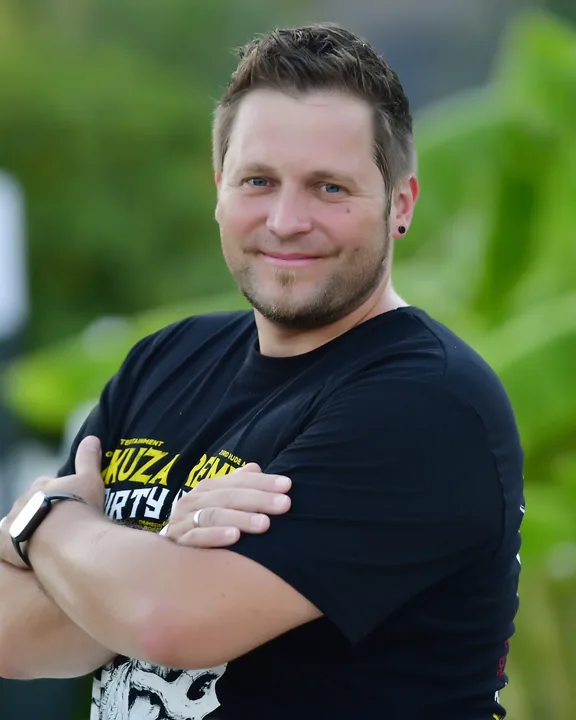
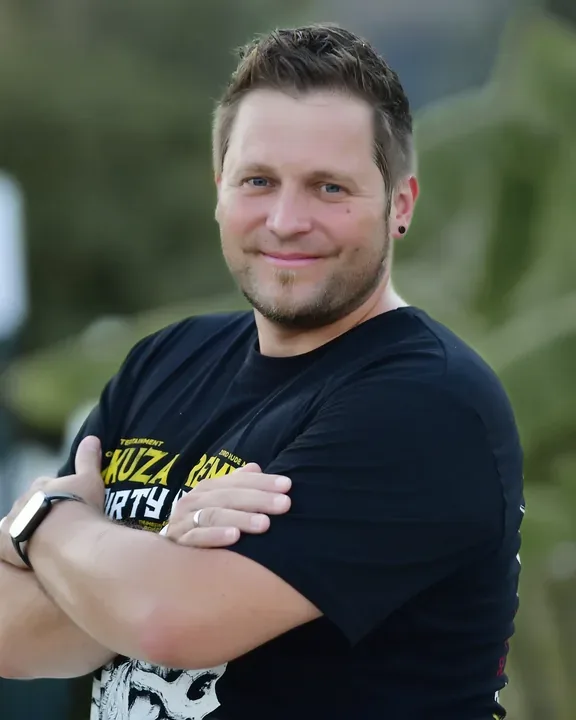
Über mich: Grün im Hintergrund des Porträtfotos gedämpft (Haut unverändert), ?v=3 (#364)
Claude-Session: https://claude.ai/code/session_01WS1E1dfBEjUneEEjWPgvxT

diff --git a/webdesign/index.html b/webdesign/index.html
@@ -657,7 +657,7 @@
   </style>
   <div class="container about">
     <div class="about__pics">
-      <img src="/assets/img/team/tim-portrait.webp?v=2" alt="Tim Kofler" width="576" height="720" loading="lazy">
+      <img src="/assets/img/team/tim-portrait.webp?v=3" alt="Tim Kofler" width="576" height="720" loading="lazy">
       <figure><img src="/assets/img/team/tim-unterwegs.webp?v=1" alt="Tim Kofler an einem Schreibtisch vor einer Hochhaus-Skyline" width="576" height="432" loading="lazy" style="aspect-ratio:4/3;object-position:center"><figcaption>Bei einem Event in Dubai</figcaption></figure>
     </div>
     <div>

diff --git a/webdesign/api/kunden-lib.php b/webdesign/api/kunden-lib.php
@@ -832,7 +832,7 @@ function kp_render_messages(array $d, string $ich, string $kundeName, ?callable 
             $out .= '<li class="kp-day"><span>' . cx_h(kp_day_label($t)) . '</span></li>';
         }
         $who = $mine ? 'Du' : ($von === 'tim' ? 'Tim' : $kundeName);
-        $ava = $von === 'tim' ? '<img class="kp-m__ava" src="/assets/img/team/tim-portrait.webp?v=2" alt="" width="22" height="22">'
+        $ava = $von === 'tim' ? '<img class="kp-m__ava" src="/assets/img/team/tim-portrait.webp?v=3" alt="" width="22" height="22">'
             : '<span class="kp-m__ava">' . kp_initials($kundeName) . '</span>';
         $art = (string) ($m['art'] ?? 'nachricht');
         $tag = $art !== 'nachricht' && isset(KP_ARTEN[$art]) ? '<span class="kp-tag kp-tag--' . $art . '">' . cx_h(KP_ARTEN[$art]) . '</span>' : '';

diff --git a/webdesign/kunden/index.php b/webdesign/kunden/index.php
@@ -661,7 +661,7 @@ kp_page('Kundenportal', <<<HTML
 </section>
 
 <aside class="kp-card kp-tim" aria-label="Dein Ansprechpartner">
-  <img class="kp-tim__foto" src="/assets/img/team/tim-portrait.webp?v=2" alt="Tim Kofler" width="64" height="64" loading="lazy">
+  <img class="kp-tim__foto" src="/assets/img/team/tim-portrait.webp?v=3" alt="Tim Kofler" width="64" height="64" loading="lazy">
   <div class="kp-tim__txt"><b>Tim Kofler</b><small>Dein Ansprechpartner für die Webseite. Lieber reden als schreiben? Ruf mich einfach an.</small></div>
   <div class="kp-tim__links">
     <a class="btn btn--sm btn--line" href="tel:+4367761773118">Anrufen</a>
